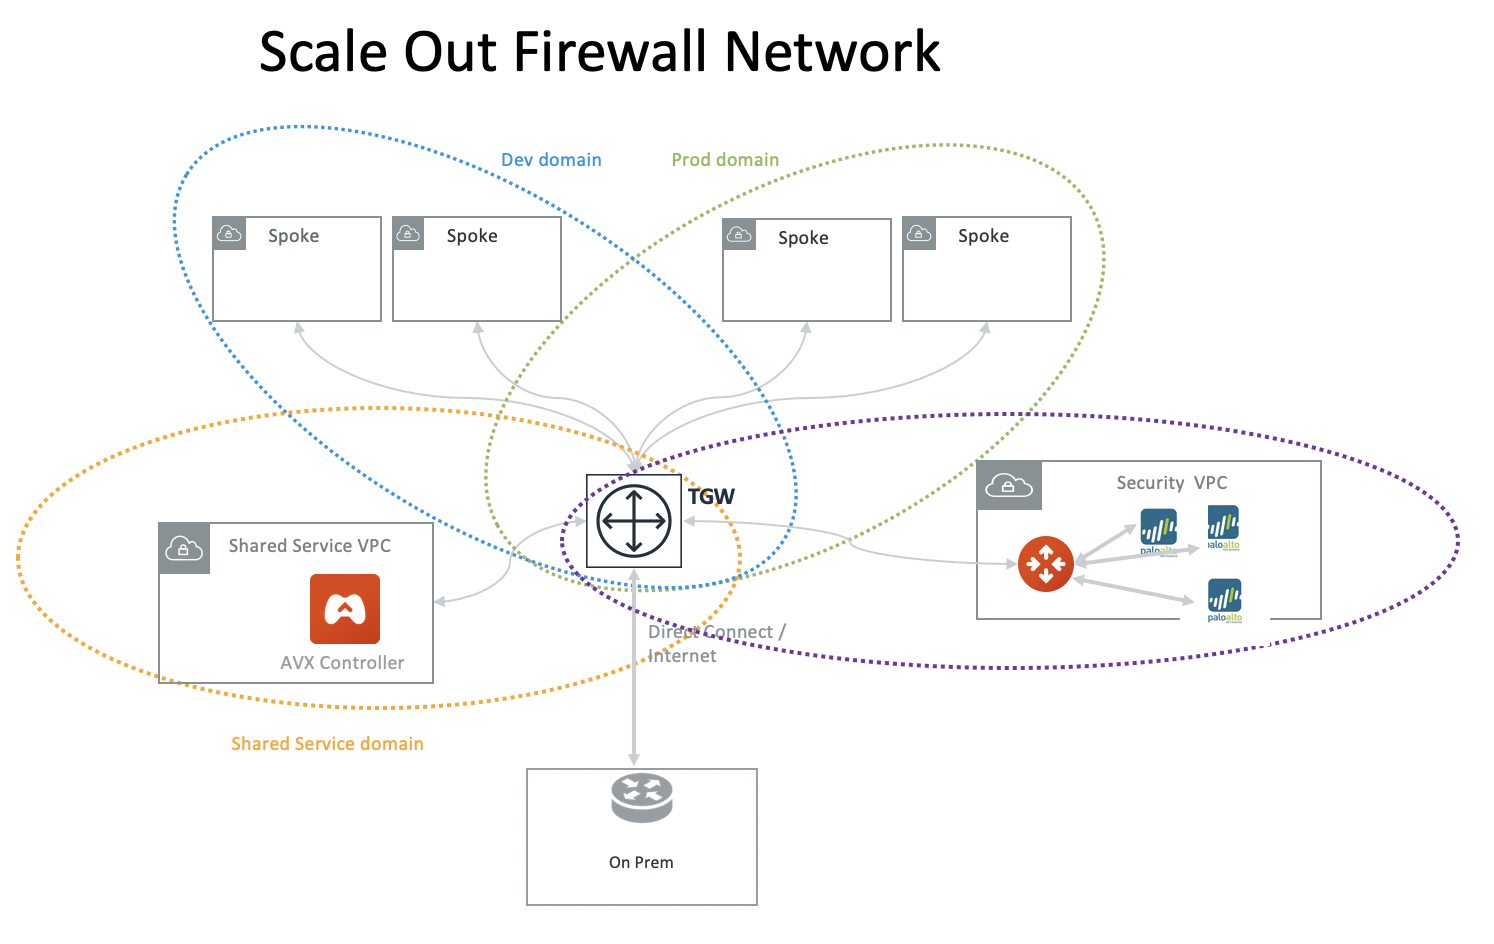
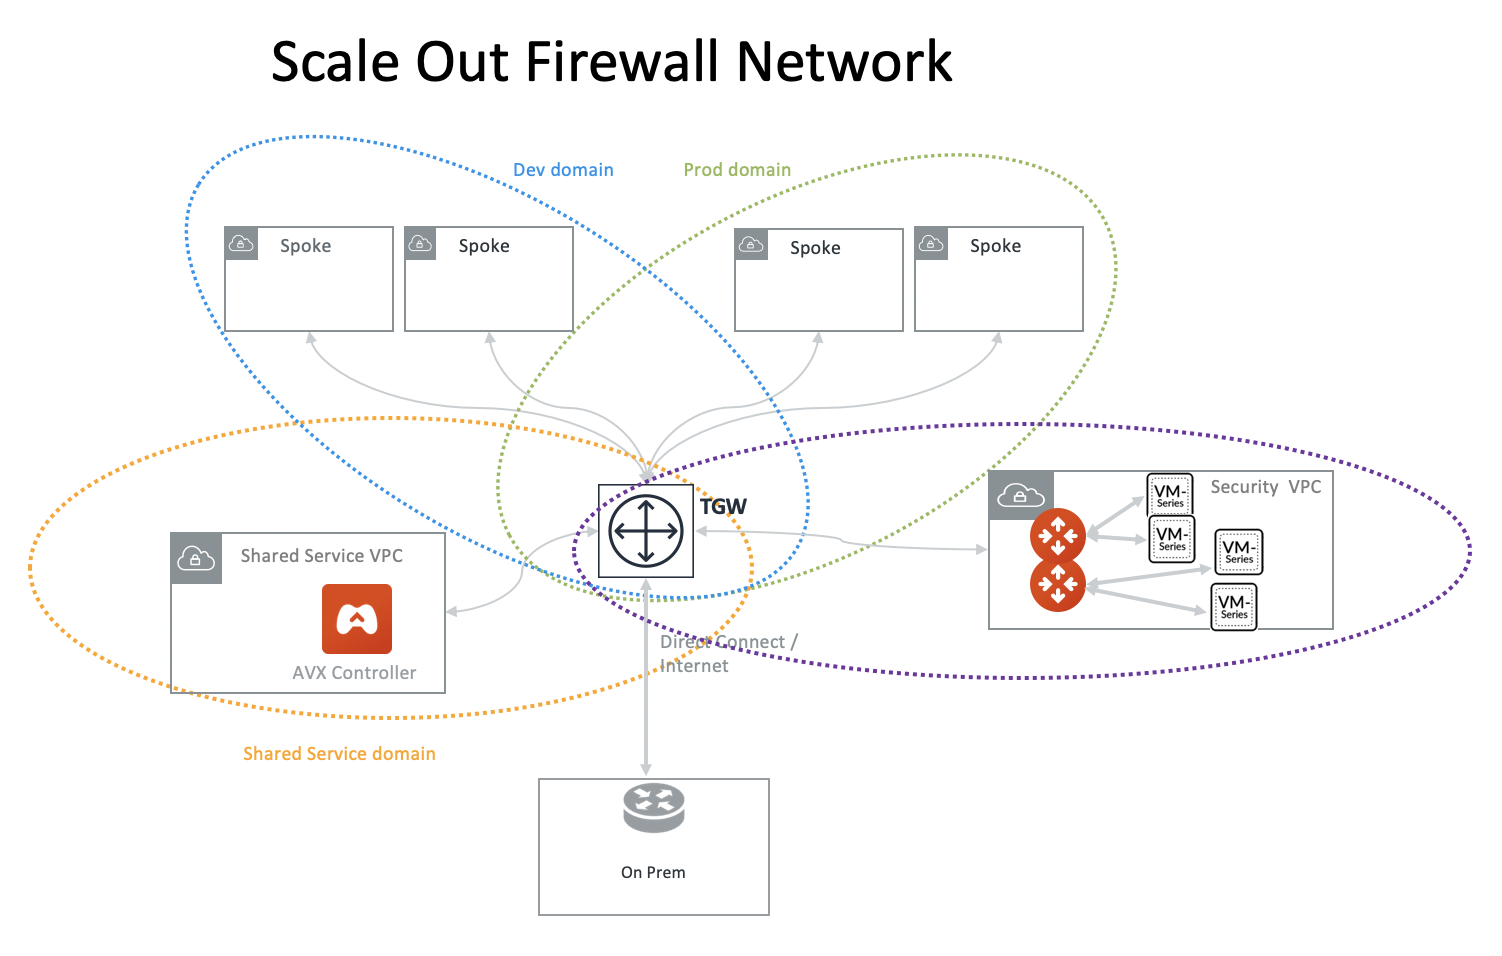
udpate firewall network

diff --git a/HowTos/firewall_network.rst b/HowTos/firewall_network.rst
@@ -19,13 +19,21 @@ Benefits of FireNet Deployment Model
  - **Vendor Integration** Launch Palo Alto Networks VM-Series from the Aviatrix Controller console to simplify deployment. 
  - **Automation** The Aviatrix Controller automatically updates Palo Alto VM-Series route tables when on-prem route changes or VPC attachment changes. 
 
-FireNet Deployment Model
----------------------------
+FireNet Deployment Model 1
+------------------------------
 
 FireNet is currently supported for AWS Transit Gateway (TGW), as shown below. 
 
-|firenet|
+|firenet_transit|
 
+
+FireNet Deployment Model 2 (Future release)
+----------------------------------------------
+
+In the future release, the hybrid deployment can be using native AWS Direct Connect Gateway. 
+
+
+|firenet|
 
 
 What is the problem with deploying firewall instances with ECMP?
@@ -39,6 +47,9 @@ much lower than what firewall instances can do without IPSEC tunnel.
 
 
 .. |firenet| image:: firewall_network_media/firenet.png
+   :scale: 30%
+
+.. |firenet_transit| image:: firewall_network_media/firenet_transit.png
    :scale: 30%
 
 .. |main_companion_gw| image:: transit_dmz_media/main_companion_gw.png
